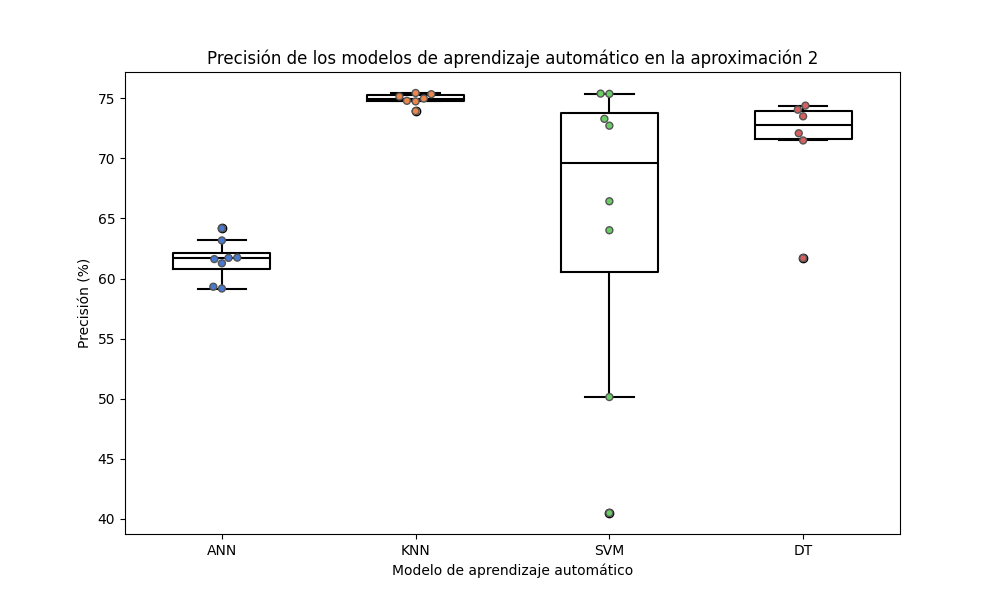
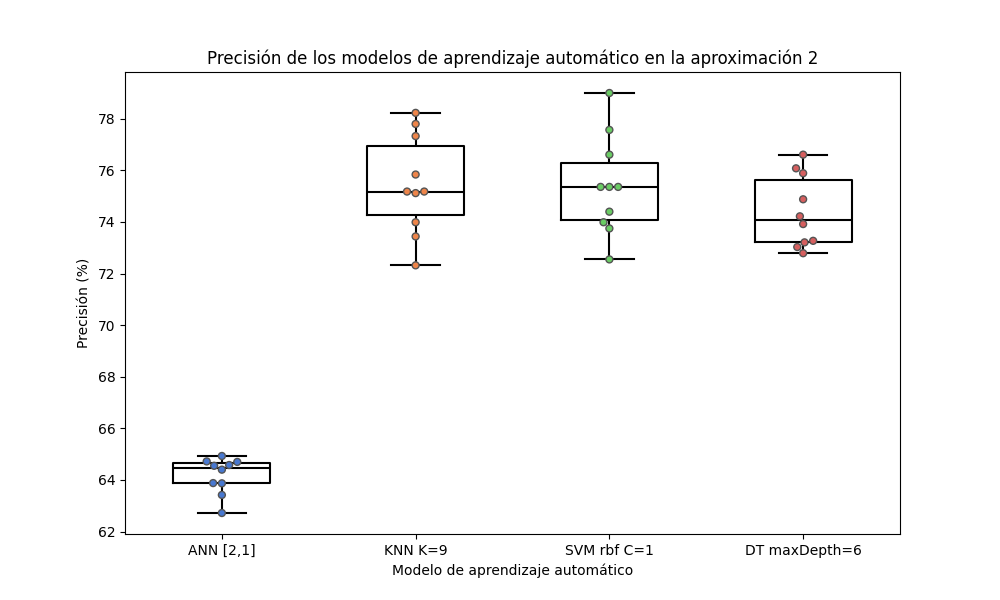
Cambio graficas swarm plot

diff --git a/swarm_plot.py b/swarm_plot.py
@@ -5,136 +5,231 @@ import pandas as pd
 import pandas as pd
 
 data = [
-    ["ANN", 69.75, 1],
-    ["ANN", 75.63, 1],
-    ["ANN", 75.59, 1],
-    ["ANN", 91.42, 1],
-    ["ANN", 83.30, 1],
-    ["ANN", 73.21, 1],
-    ["ANN", 67.72, 1],
-    ["ANN", 84.69, 1],
-    ["KNN", 95.46, 1],
-    ["KNN", 95.36, 1],
-    ["KNN", 95.54, 1],
-    ["KNN", 95.50, 1],
-    ["KNN", 95.21, 1],
-    ["KNN", 95.64, 1],
-    ["KNN", 95.54, 1],
-    ["SVM", 94.82, 1],
-    ["SVM", 94.14, 1],
-    ["SVM", 91.96, 1],
-    ["SVM", 84.03, 1],
-    ["SVM", 94.42, 1],
-    ["SVM", 93.69, 1],
-    ["SVM", 92.64, 1],
-    ["SVM", 89.57, 1],
-    ["DT", 93.17, 1],
-    ["DT", 93.17, 1],
-    ["DT", 94.50, 1],
-    ["DT", 94.92, 1],
-    ["DT", 95.25, 1],
-    ["DT", 94.92, 1],
+
+    #APROX1
+    ["ANN [3]", 87.32, 1],
+    ["ANN [3]", 82.09, 1],
+    ["ANN [3]", 80.64, 1],
+    ["ANN [3]", 83.25, 1],
+    ["ANN [3]", 84.92, 1],
+    ["ANN [3]", 93.05, 1],
+    ["ANN [3]", 86.15, 1],
+    ["ANN [3]", 88.27, 1],
+    ["ANN [3]", 83.86, 1],
+    ["ANN [3]", 78.50, 1],
+
+    ["KNN K=9", 95.36, 1],
+    ["KNN K=9", 94.64, 1],
+    ["KNN K=9", 95.00, 1],
+    ["KNN K=9", 93.93, 1],
+    ["KNN K=9", 95.71, 1],
+    ["KNN K=9", 97.14, 1],
+    ["KNN K=9", 97.50, 1],
+    ["KNN K=9", 96.43, 1],
+    ["KNN K=9", 95.36, 1],
+    ["KNN K=9", 95.36, 1],
+
+    ["SVM rbf C=200", 95.71, 1],
+    ["SVM rbf C=200", 95.35, 1],
+    ["SVM rbf C=200", 95.00, 1],
+    ["SVM rbf C=200", 92.86, 1],
+    ["SVM rbf C=200", 94.64, 1],
+    ["SVM rbf C=200", 95.36, 1],
+    ["SVM rbf C=200", 96.07, 1],
+    ["SVM rbf C=200", 95.00, 1],
+    ["SVM rbf C=200", 95.36, 1],
+    ["SVM rbf C=200", 93.93, 1],
+
+    ["DT maxDepth=5", 95.36, 1],
+    ["DT maxDepth=5", 93.93, 1],
+    ["DT maxDepth=5", 94.64, 1],
+    ["DT maxDepth=5", 94.28, 1],
+    ["DT maxDepth=5", 95.36, 1],
+    ["DT maxDepth=5", 95.00, 1],
+    ["DT maxDepth=5", 97.14, 1],
+    ["DT maxDepth=5", 96.43, 1],
+    ["DT maxDepth=5", 95.71, 1],
+    ["DT maxDepth=5", 94.64, 1],
 
     #APROX2
-    ["ANN", 64.18, 2],
-    ["ANN", 61.27, 2],
-    ["ANN", 61.72, 2],
-    ["ANN", 61.62, 2],
-    ["ANN", 59.32, 2],
-    ["ANN", 61.74, 2],
-    ["ANN", 63.17, 2],
-    ["ANN", 59.17, 2],
+    ["ANN [2,1]", 62.72, 2],
+    ["ANN [2,1]", 63.87, 2],
+    ["ANN [2,1]", 64.40, 2],
+    ["ANN [2,1]", 63.42, 2],
+    ["ANN [2,1]", 63.88, 2],
+    ["ANN [2,1]", 64.93, 2],
+    ["ANN [2,1]", 64.72, 2],
+    ["ANN [2,1]", 64.58, 2],
+    ["ANN [2,1]", 64.70, 2],
+    ["ANN [2,1]", 64.55, 2],
+
+    ["KNN K=9", 77.33, 2],
+    ["KNN K=9", 73.99, 2],
+    ["KNN K=9", 75.18, 2],
+    ["KNN K=9", 77.80, 2],
+    ["KNN K=9", 72.32, 2],
+    ["KNN K=9", 75.18, 2],
+    ["KNN K=9", 73.44, 2],
+    ["KNN K=9", 75.12, 2],
+    ["KNN K=9", 78.23, 2],
+    ["KNN K=9", 75.84, 2],
+
+    ["SVM rbf C=1", 76.61, 2],
+    ["SVM rbf C=1", 72.55, 2],
+    ["SVM rbf C=1", 73.75, 2],
+    ["SVM rbf C=1", 79.00, 2],
+    ["SVM rbf C=1", 77.57, 2],
+    ["SVM rbf C=1", 73.99, 2],
+    ["SVM rbf C=1", 75.36, 2],
+    ["SVM rbf C=1", 75.36, 2],
+    ["SVM rbf C=1", 75.36, 2],
+    ["SVM rbf C=1", 74.40, 2],
     
-    ["KNN", 73.93, 2],
-    ["KNN", 75.15, 2],
-    ["KNN", 74.74, 2],
-    ["KNN", 75.34, 2],
-    ["KNN", 74.98, 2],
-    ["KNN", 75.44, 2],
-    ["KNN", 74.79, 2],
-
-    ["SVM", 75.39, 2],
-    ["SVM", 72.72, 2],
-    ["SVM", 64.02, 2],
-    ["SVM", 50.14, 2],
-    ["SVM", 75.37, 2],
-    ["SVM", 73.29, 2],
-    ["SVM", 66.43, 2],
-    ["SVM", 40.49, 2],
-
-    ["DT", 61.70, 2],
-    ["DT", 72.09, 2],
-    ["DT", 71.49, 2],
-    ["DT", 73.50, 2],
-    ["DT", 74.05, 2],
-    ["DT", 74.39, 2],
+    ["DT maxDepth=6", 74.22, 2],
+    ["DT maxDepth=6", 72.79, 2],
+    ["DT maxDepth=6", 73.27, 2],
+    ["DT maxDepth=6", 76.61, 2],
+    ["DT maxDepth=6", 75.89, 2],
+    ["DT maxDepth=6", 73.03, 2],
+    ["DT maxDepth=6", 73.21, 2],
+    ["DT maxDepth=6", 73.92, 2],
+    ["DT maxDepth=6", 74.88, 2],
+    ["DT maxDepth=6", 76.08, 2],
+    
     #APROX3
+    ["ANN [2,1]", 73.42, 3],
+    ["ANN [2,1]", 73.17, 3],
+    ["ANN [2,1]", 72.68, 3],
+    ["ANN [2,1]", 72.67, 3],
+    ["ANN [2,1]", 72.43, 3],
+    ["ANN [2,1]", 72.72, 3],
+    ["ANN [2,1]", 73.01, 3],
+    ["ANN [2,1]", 72.16, 3],
+    ["ANN [2,1]", 73.32, 3],
+    ["ANN [2,1]", 73.52, 3],
 
-    ["ANN", 72.91, 3],
-    ["ANN", 69.36, 3],
-    ["ANN", 69.03, 3],
-    ["ANN", 68.99, 3],
-    ["ANN", 66.70, 3],
-    ["ANN", 66.07, 3],
-    ["ANN", 70.74, 3],
-    ["ANN", 66.37, 3],
+    ["KNN K=4", 82.41, 3],
+    ["KNN K=4", 84.56, 3],
+    ["KNN K=4", 83.12, 3],
+    ["KNN K=4", 83.12, 3],
+    ["KNN K=4", 85.28, 3],
+    ["KNN K=4", 82.76, 3],
+    ["KNN K=4", 82.41, 3],
+    ["KNN K=4", 83.48, 3],
+    ["KNN K=4", 82.94, 3],
+    ["KNN K=4", 85.28, 3],
 
-    ["KNN", 83.54, 3],
-    ["KNN", 83.39, 3],
-    ["KNN", 82.80, 3],
-    ["KNN", 83.48, 3],
-    ["KNN", 82.91, 3],
-    ["KNN", 82.53, 3],
-    ["KNN", 82.68, 3],
+    ["SVM rbf C=200", 80.61, 3],
+    ["SVM rbf C=200", 84.38, 3],
+    ["SVM rbf C=200", 83.12, 3],
+    ["SVM rbf C=200", 82.23, 3],
+    ["SVM rbf C=200", 81.51, 3],
+    ["SVM rbf C=200", 79.17, 3],
+    ["SVM rbf C=200", 83.12, 3],
+    ["SVM rbf C=200", 80.79, 3],
+    ["SVM rbf C=200", 80.23, 3],
+    ["SVM rbf C=200", 81.15, 3],
 
-    ["SVM", 77.27, 3],
-    ["SVM", 72.28, 3],
-    ["SVM", 77.21, 3],
-    ["SVM", 2.37, 3],
-    ["SVM", 81.83, 3],
-    ["SVM", 73.57, 3],
-    ["SVM", 79.64, 3],
-    ["SVM", 2.33, 3],
+    ["DT maxDepth=6", 71.99, 3],
+    ["DT maxDepth=6", 80.25, 3],
+    ["DT maxDepth=6", 74.69, 3],
+    ["DT maxDepth=6", 75.22, 3],
+    ["DT maxDepth=6", 73.43, 3],
+    ["DT maxDepth=6", 72.71, 3],
+    ["DT maxDepth=6", 76.48, 3],
+    ["DT maxDepth=6", 76.66, 3],
+    ["DT maxDepth=6", 75.76, 3],
+    ["DT maxDepth=6", 75.94, 3],
 
-    ["DT", 46.44, 3],
-    ["DT", 65.91, 3],
-    ["DT", 67.76, 3],
-    ["DT", 70.00, 3],
-    ["DT", 72.24, 3],
-    ["DT", 75.31, 3],
+    #APROX4
+    ["ANN [2,1]", 82.82, 4],
+    ["ANN [2,1]", 82.93, 4],
+    ["ANN [2,1]", 83.03, 4],
+    ["ANN [2,1]", 82.63, 4],
+    ["ANN [2,1]", 82.65, 4],
+    ["ANN [2,1]", 82.73, 4],
+    ["ANN [2,1]", 82.90, 4],
+    ["ANN [2,1]", 82.66, 4],
+    ["ANN [2,1]", 82.64, 4],
+    ["ANN [2,1]", 82.74, 4],
 
-    ["ANN", 82.77, 4],
-    ["ANN", 80.97, 4],
-    ["ANN", 80.77, 4],
-    ["ANN", 80.45, 4],
-    ["ANN", 79.54, 4],
-    ["ANN", 80.57, 4],
-    ["ANN", 81.98, 4],
-    ["ANN", 78.67, 4],
+    ["KNN K=4", 77.90, 4],
+    ["KNN K=4", 78.97, 4],
+    ["KNN K=4", 79.57, 4],
+    ["KNN K=4", 78.97, 4],
+    ["KNN K=4", 79.69, 4],
+    ["KNN K=4", 78.02, 4],
+    ["KNN K=4", 79.69, 4],
+    ["KNN K=4", 78.38, 4],
+    ["KNN K=4", 80.41, 4],
+    ["KNN K=4", 78.38, 4],
 
-    ["KNN", 78.99, 4],
-    ["KNN", 78.68, 4],
-    ["KNN", 77.86, 4],
-    ["KNN", 77.49, 4],
-    ["KNN", 77.20, 4],
-    ["KNN", 76.77, 4],
-    ["KNN", 76.83, 4],
+    ["SVM rbf C=200", 72.40, 4],
+    ["SVM rbf C=200", 76.34, 4],
+    ["SVM rbf C=200", 74.67, 4],
+    ["SVM rbf C=200", 76.34, 4],
+    ["SVM rbf C=200", 73.48, 4],
+    ["SVM rbf C=200", 76.94, 4],
+    ["SVM rbf C=200", 76.82, 4],
+    ["SVM rbf C=200", 72.52, 4],
+    ["SVM rbf C=200", 74.91, 4],
+    ["SVM rbf C=200", 77.66, 4],
+    
+    ["DT maxDepth=6", 61.05, 4],
+    ["DT maxDepth=6", 61.29, 4],
+    ["DT maxDepth=6", 56.51, 4],
+    ["DT maxDepth=6", 59.98, 4],
+    ["DT maxDepth=6", 59.62, 4],
+    ["DT maxDepth=6", 62.60, 4],
+    ["DT maxDepth=6", 62.01, 4],
+    ["DT maxDepth=6", 56.99, 4],
+    ["DT maxDepth=6", 61.05, 4],
+    ["DT maxDepth=6", 59.62, 4],
+    
+    #APROX5
+    # ["ANN", 62.72, 5],
+    # ["ANN", 63.87, 5],
+    # ["ANN", 64.40, 5],
+    # ["ANN", 63.42, 5],
+    # ["ANN", 63.88, 5],
+    # ["ANN", 64.93, 5],
+    # ["ANN", 64.72, 5],
+    # ["ANN", 64.58, 5],
+    # ["ANN", 64.70, 5],
+    # ["ANN", 64.55, 5],
 
-    ["SVM", 66.96, 4],
-    ["SVM", 60.0, 4],
-    ["SVM", 66.95, 4],
-    ["SVM", 1.30, 4],
-    ["SVM", 75.20, 4],
-    ["SVM", 61.98, 4],
-    ["SVM", 71.00, 4],
-    ["SVM", 3.32, 4],
+    # ["KNN", 77.33, 5],
+    # ["KNN", 73.99, 5],
+    # ["KNN", 75.18, 5],
+    # ["KNN", 77.80, 5],
+    # ["KNN", 72.32, 5],
+    # ["KNN", 75.18, 5],
+    # ["KNN", 73.44, 5],
+    # ["KNN", 75.12, 5],
+    # ["KNN", 78.23, 5],
+    # ["KNN", 75.84, 5],
 
-    ["DT", 29.79, 4],
-    ["DT", 41.67, 4],
-    ["DT", 47.57, 4],
-    ["DT", 54.44, 4],
-    ["DT", 55.89, 4],
-    ["DT", 60.07, 4],
+    # ["SVM", 76.61, 5],
+    # ["SVM", 72.55, 5],
+    # ["SVM", 73.75, 5],
+    # ["SVM", 79.00, 5],
+    # ["SVM", 77.57, 5],
+    # ["SVM", 73.99, 5],
+    # ["SVM", 75.36, 5],
+    # ["SVM", 75.36, 5],
+    # ["SVM", 75.36, 5],
+    # ["SVM", 74.40, 5],
+
+    # ["DT", 74.22, 5],
+    # ["DT", 72.79, 5],
+    # ["DT", 73.27, 5],
+    # ["DT", 76.61, 5],
+    # ["DT", 75.89, 5],
+    # ["DT", 73.03, 5],
+    # ["DT", 73.21, 5],
+    # ["DT", 73.92, 5],
+    # ["DT", 74.88, 5],
+    # ["DT", 76.08, 5],
 ]
 
 df = pd.DataFrame(data, columns=['Modelo de aprendizaje automático', 'Precisión', 'Aproximación'])
